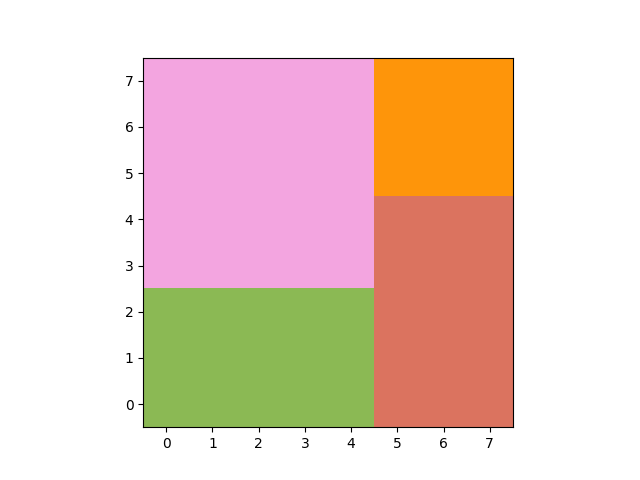
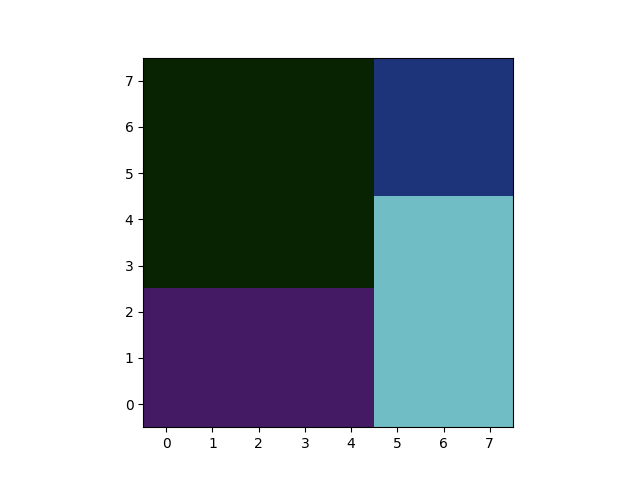
fixed cast solution

diff --git a/SMT/src/SMT.py b/SMT/src/SMT.py
@@ -44,21 +44,14 @@ def write_solution(instance, w, h, n, x, y, x_coord, y_coord, sym_break=False, r
 
 # PLOT FUNCTIONS
 def plot_solution(instance, w, h, n, x, y, x_coord, y_coord, sym_break=False, rotation=False):       # path of the output file, board weight, board height, total number of circuits to place
-    
-    # cast from string to integer
-    h = int(h)    
-
-    #cast from list of string to list of integer
-    x_coord_plot = [eval(k) for k in x_coord]
-    y_coord_plot = [eval(k) for k in y_coord]
 
     board = np.empty((h, w))        # h stands for the height of the board and, as a numpy array, it stands for the number of rows
                                     # w stands for the width of the board and, as a numpy array, it stands for the number of columns
     board.fill(n)
 
     for i in range(n):
-        column = x_coord_plot[i]  # position of the circuit on x-axis
-        row = y_coord_plot[i]     # position of the circuit on y-axis
+        column = x_coord[i]  # position of the circuit on x-axis
+        row = y_coord[i]     # position of the circuit on y-axis
 
         # compute the width and height of the current circuit
         width = x[i]
@@ -181,7 +174,7 @@ def smt_exec(first_i, last_i, sym_break, rotation, plot):
             # OPTIMIZER -> to solve using objective functions
             x_coord_sol = []
             y_coord_sol = []
-            
+
             optimizer.add(boundary_x + boundary_x + bound_zero_x + bound_zero_y + non_overlap_const + cumulative_x + cumulative_y)
             optimizer.minimize(min_height)
 
@@ -202,11 +195,11 @@ def smt_exec(first_i, last_i, sym_break, rotation, plot):
                 
                 # get solution for the coord variable
                 for i in range(n_circuit):
-                    x_coord_sol.append(model.evaluate(x_coord[i]).as_string())
-                    y_coord_sol.append(model.evaluate(y_coord[i]).as_string())
+                    x_coord_sol.append(model.evaluate(x_coord[i]).as_long()) # type z3.IntNumRef -> to int
+                    y_coord_sol.append(model.evaluate(y_coord[i]).as_long())
                 
                 # get minimized height
-                min_height_sol = model.evaluate(min_height).as_string()
+                min_height_sol = model.evaluate(min_height).as_long()
                 
                 # get the model
                 # model = optimizer.model()
@@ -214,10 +207,11 @@ def smt_exec(first_i, last_i, sym_break, rotation, plot):
 
                 print(f'Instance: {instance}\tExecution time: {(end_time):.03f}s\tBest objective value: {min_height_sol}')
                 
+                # results with sym breaking constraint
                 if sym_break:
                     write_solution(instance, w, min_height_sol, n_circuit, x_dim, y_dim, x_coord_sol, y_coord_sol, sym_break)
                     plot_solution(instance, w, min_height_sol, n_circuit, x_dim, y_dim, x_coord_sol, y_coord_sol, sym_break)
-
+                # results w/o sym breaking constraint
                 else:
                     write_solution(instance, w, min_height_sol, n_circuit, x_dim, y_dim, x_coord_sol, y_coord_sol)
                     plot_solution(instance, w, min_height_sol, n_circuit, x_dim, y_dim, x_coord_sol, y_coord_sol)
@@ -231,13 +225,13 @@ def smt_exec(first_i, last_i, sym_break, rotation, plot):
         ## ROTATION ##
         ##############
         else:
-            True
+            print("Wow Roration!!")
 
 
 
 
 
-# il SOLVER, dati una serie di constraints, trova una soluzione per quei constraints
+# il SOLVER, dati una serie di constraints, trova una soluzione per quei constraints -> devi ciclare sull'altezza se vuoi usare il solver
 # l'OPTIMIZER, dati una serie di constraints e una funzione obiettivo, trova una soluzione che soddisfi i constraints in funzione
 # della massimizzazione o della minimizzazione della funzione obiettivo
 
